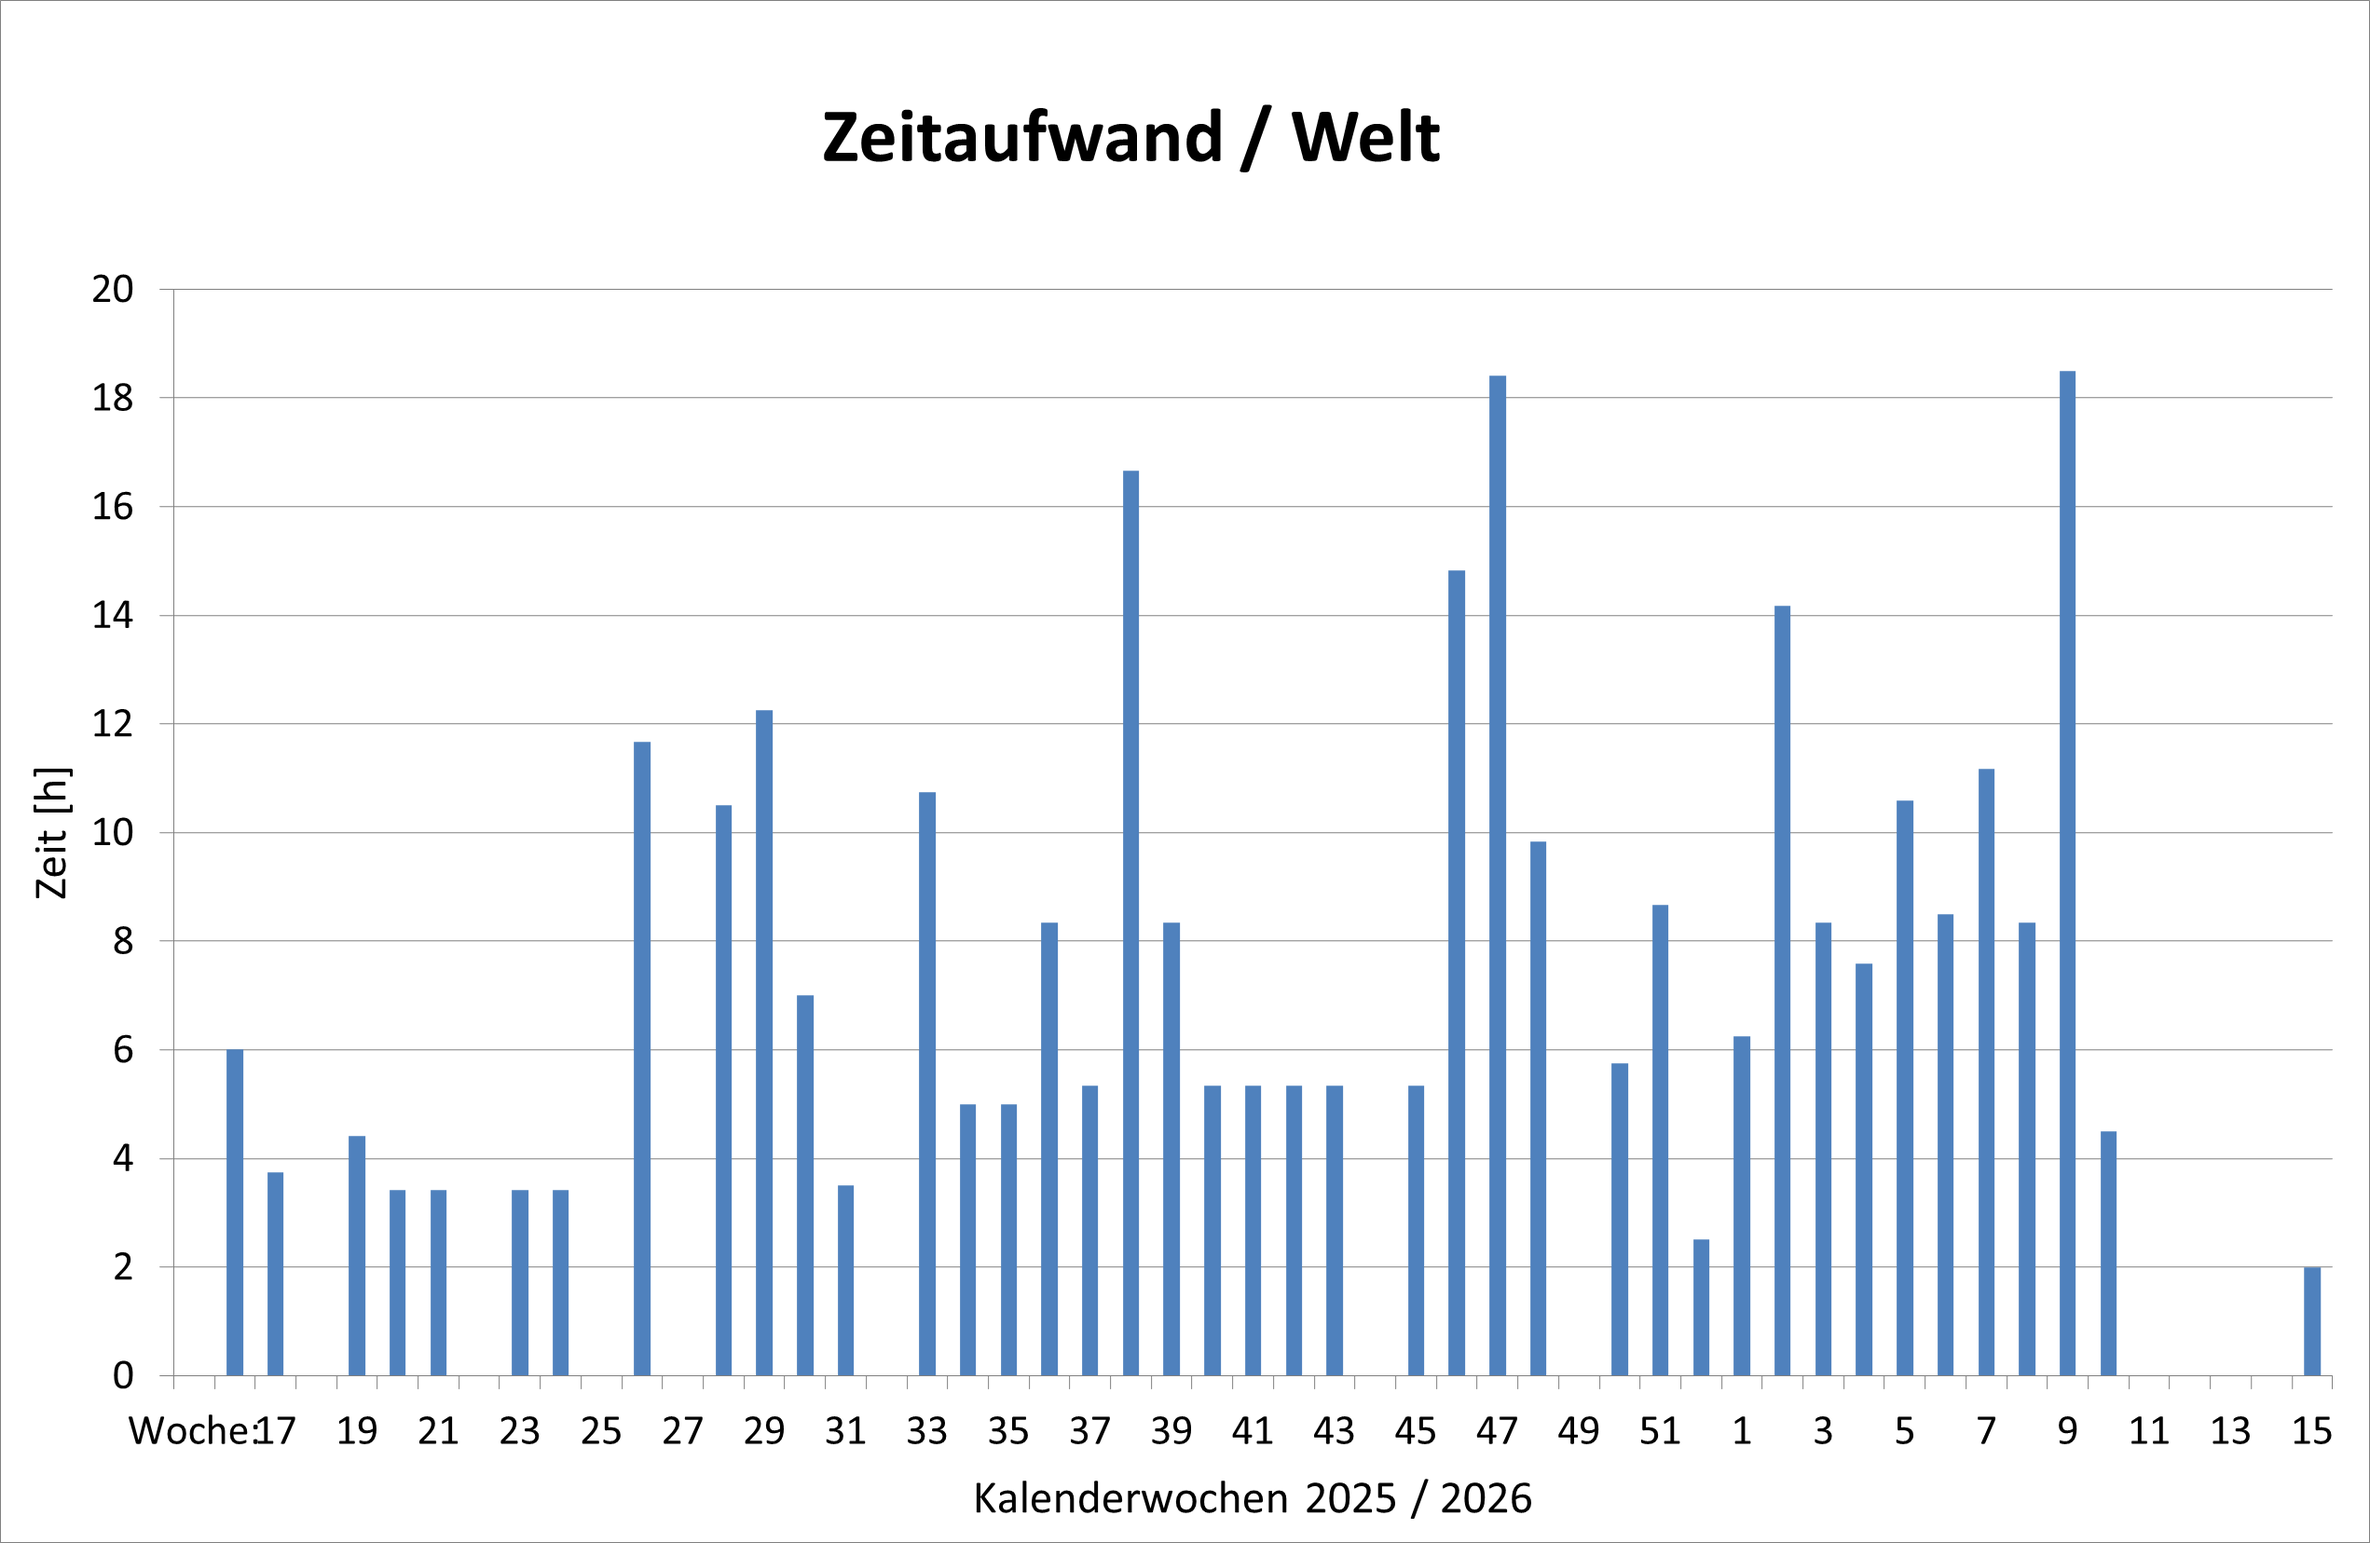
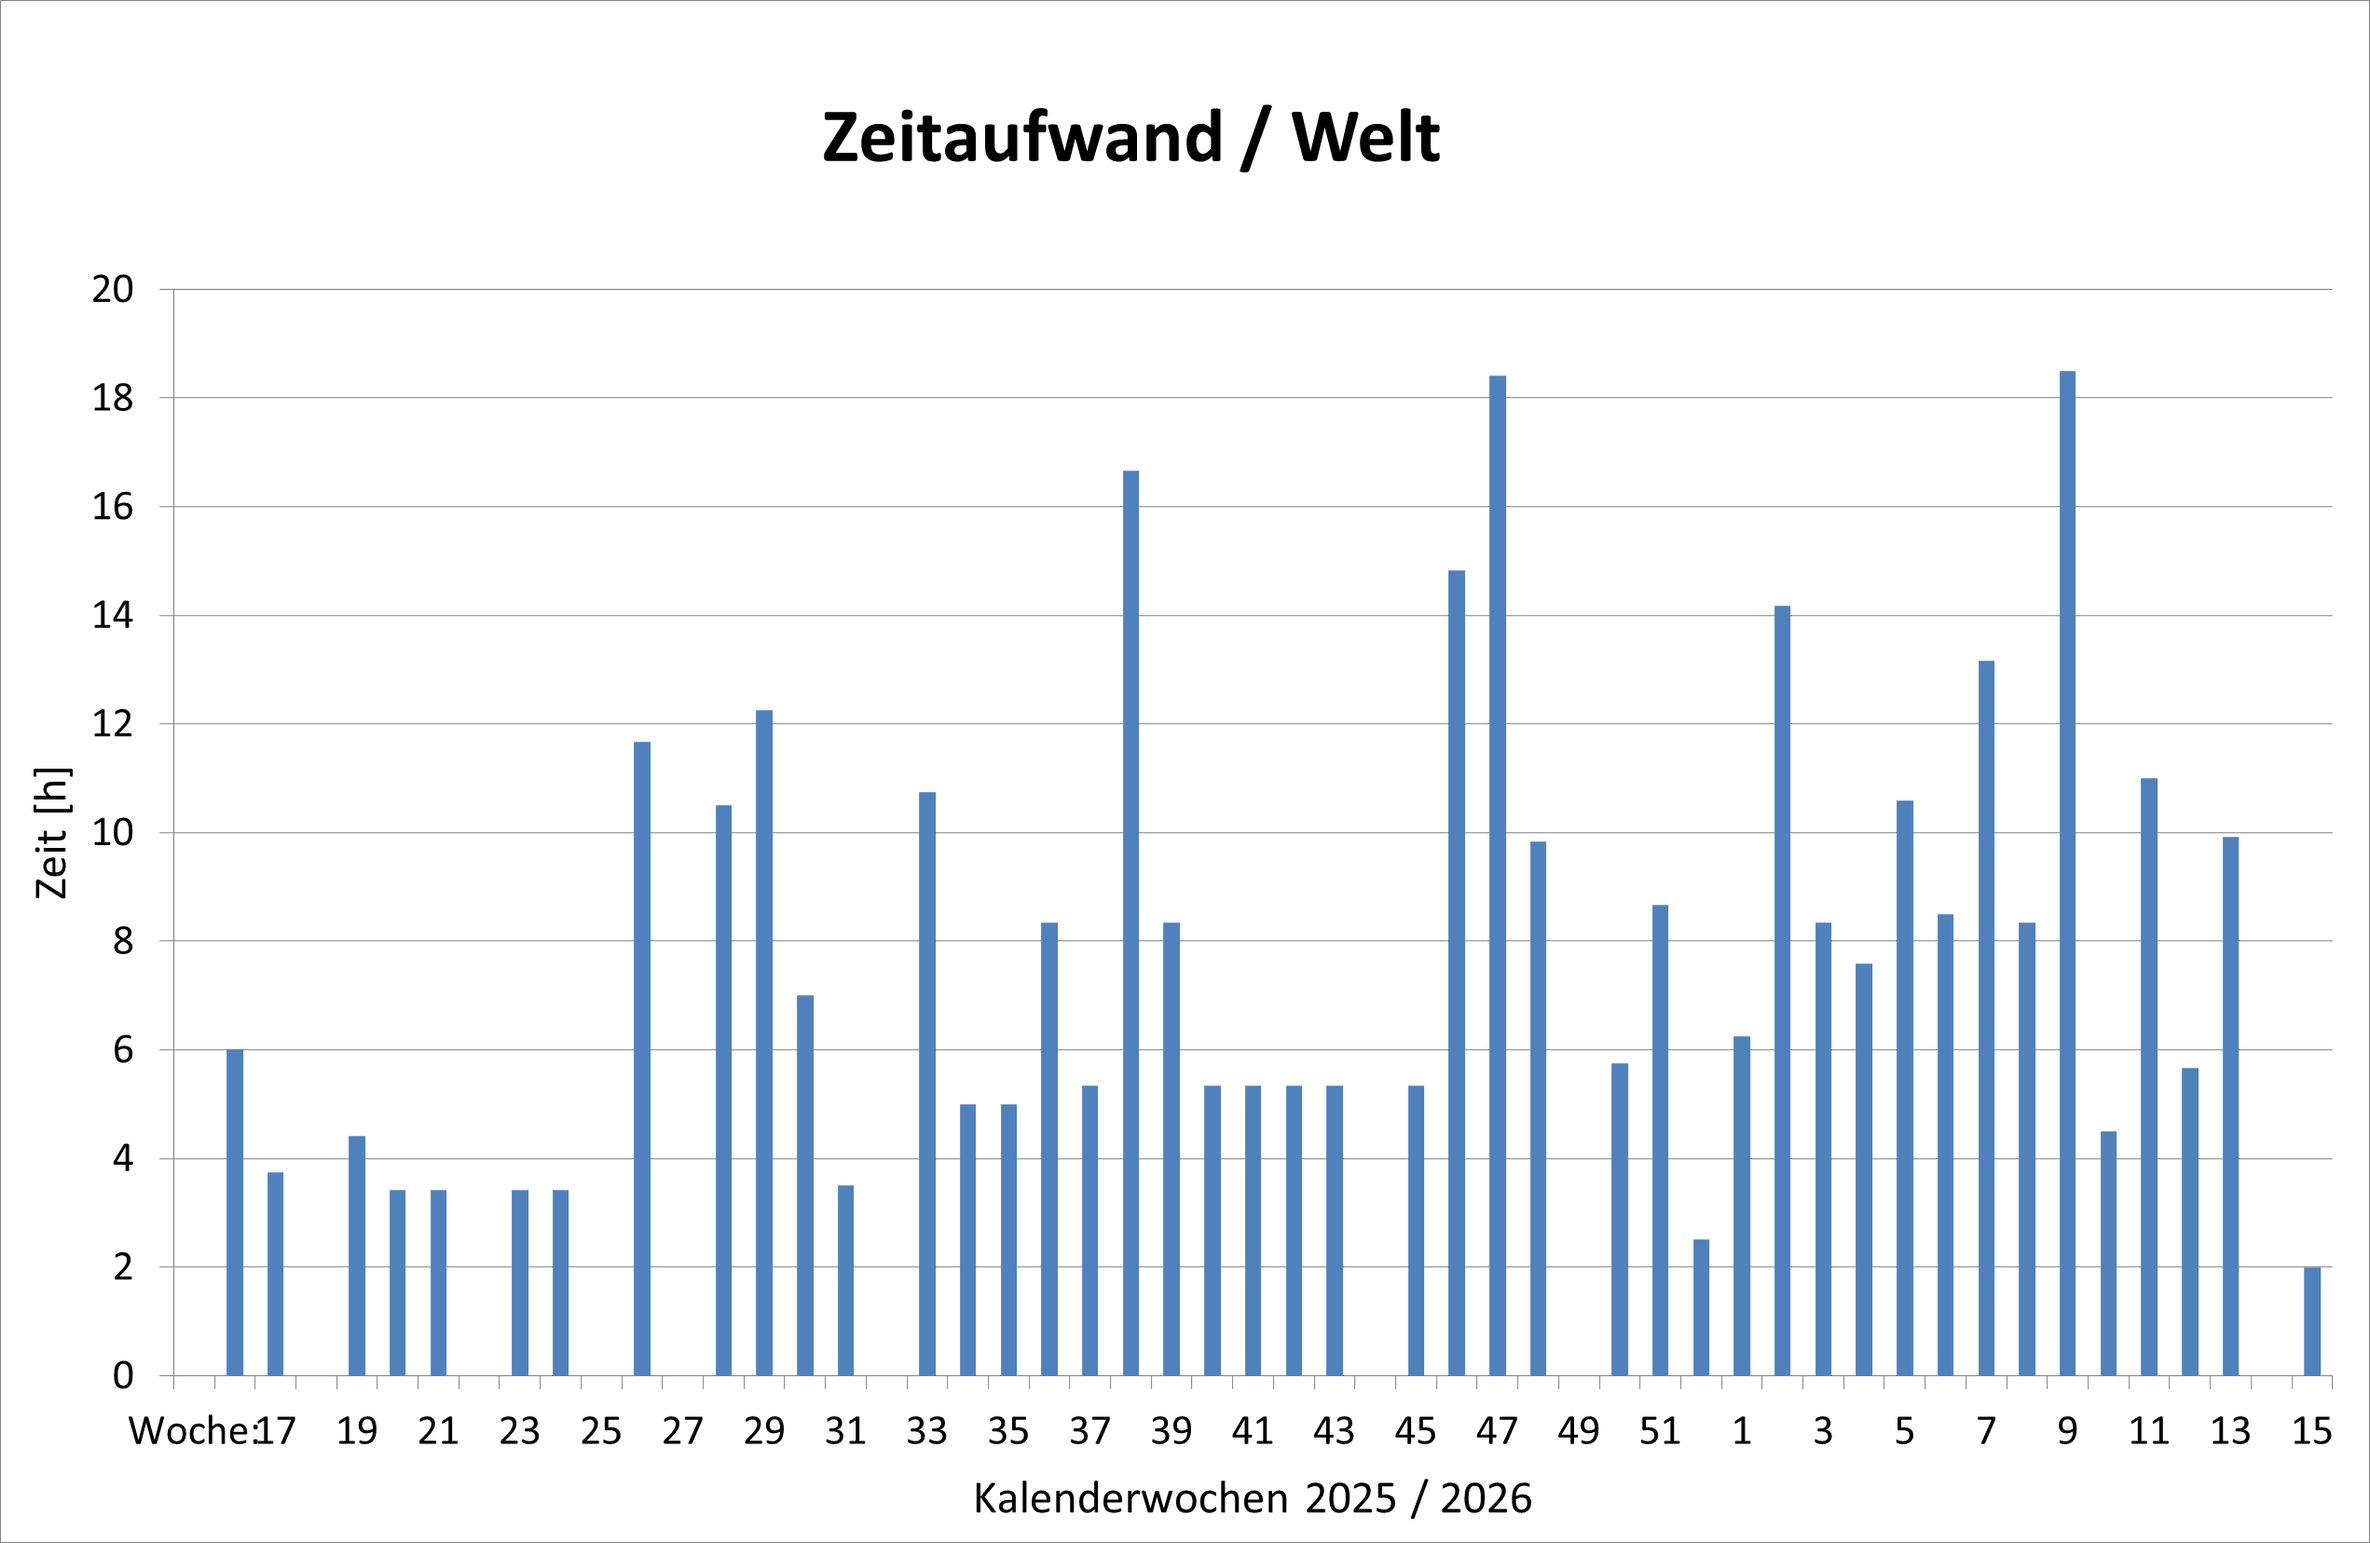
review of whole docu last structure and text review, changed time

Changed region(s): [[0.9009, 0.4928, 0.963, 0.8931], [0.8077, 0.4312, 0.8388, 0.4928]]

diff --git a/Docu/frontend/zeit.tex b/Docu/frontend/zeit.tex
@@ -5,7 +5,7 @@
 	\includegraphics[width=\textwidth]{img/Zeitaufwand_Welt.png}
     \caption{Frontend Zeitaufwand}
 \end{figure}
-Gesamt: 318,75h\\
-Freizeit: 236,46h
+Gesamt: 347,33h\\
+Freizeit: 257,54h
 ~ \\
 \newpage
